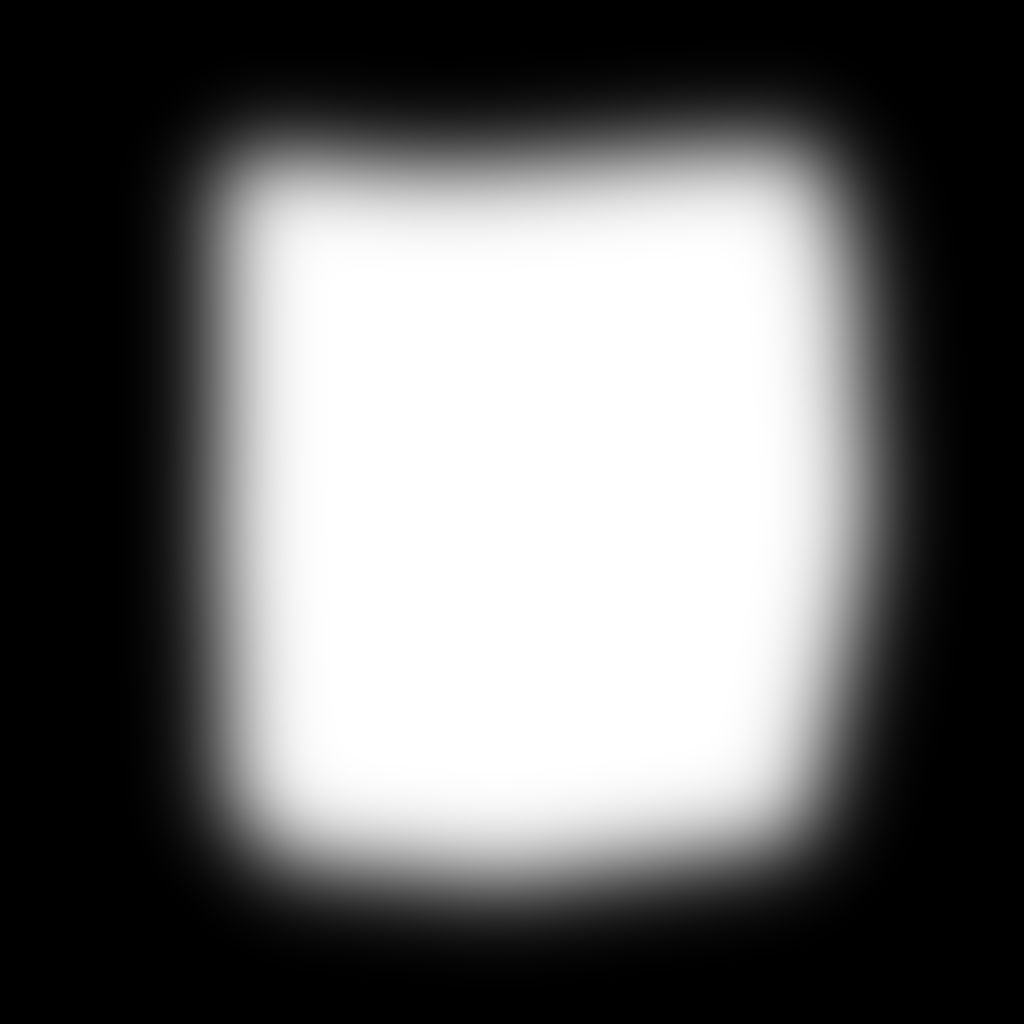
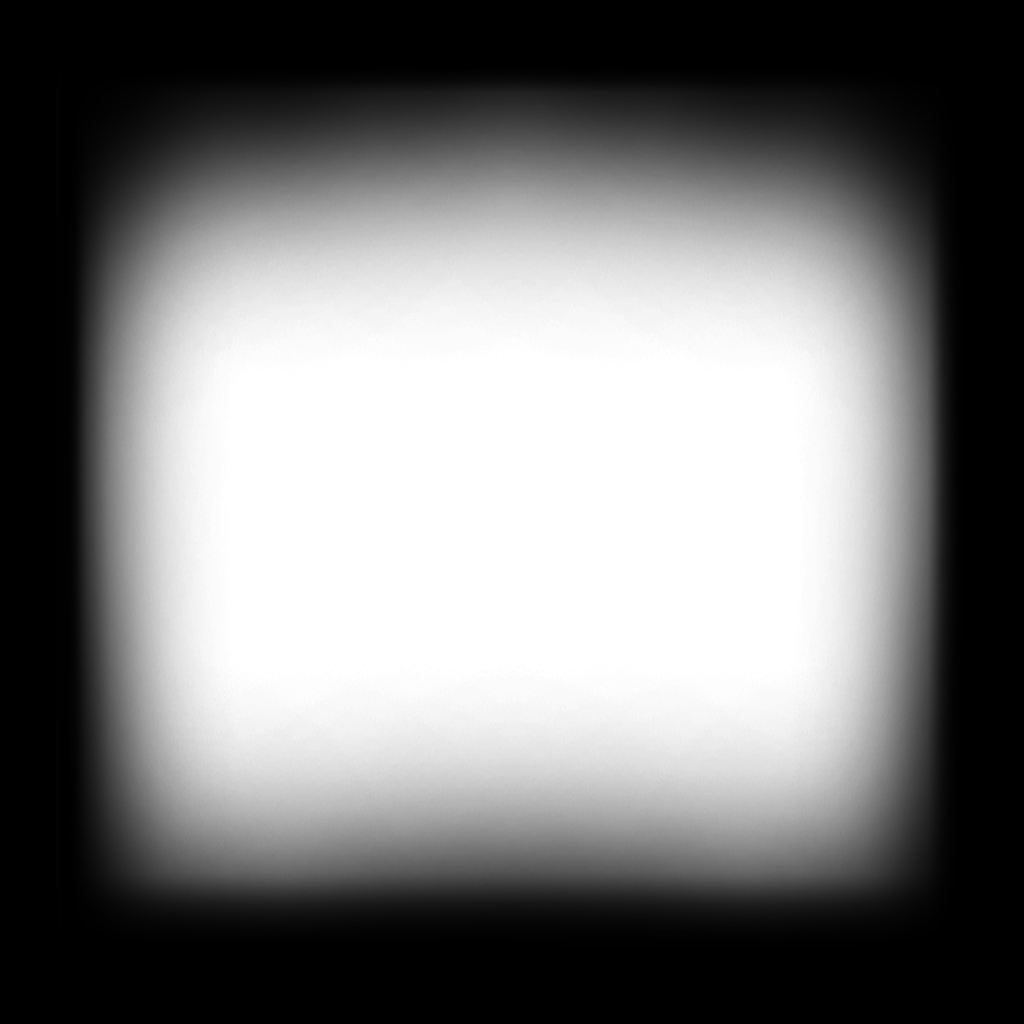
Transitions marchent, particules bien placées, problème d'affichage réglé (header margin), manque a faire la transition entrante

diff --git a/src/js/webgl/webgl.js b/src/js/webgl/webgl.js
@@ -1,15 +1,36 @@
 'use strict';
 
 import LIBS from './libs.js';
-import config from './config.js';
+import config from '../config.js';
 
 let webGL={
 	bg_anim: null,
+	
+	
+	Particle: function(x,y,size){
+		this.x=x;
+		this.y=y;
+		this.direction=[Math.random(),Math.random()];
+		this.size=size;
+		this.anim=0;
+		this.opacity = Math.random()/3;
+		this.update=function(){
+			this.x+=this.direction[0]/300.;
+			this.y+=this.direction[1]/300.;
+			this.anim++;
+		}
+		
+	},
+	
+	
 	 Background: function(r,v,b,a){
 		this.activecol=[r,v,b,a];
 
 		this.animation=[0,0,0];
 		this.transition=0;
+		
+		this.particlesLight=[];
+		this.particlesBack=[];
 		
 		this.addActiveCol = function (r,v,b,a) {
 			this.activecol=[r,v,b,a];
@@ -25,16 +46,39 @@ let webGL={
 		this.update = function(){
 			if(this.transition <100 && this.transition>0)
 				this.transition++;
-
+			
+			if(Math.random()>0.96 && this.particlesLight.length<10){
+				this.particlesLight.push(new webGL.Particle((Math.random()-0.5)*8,(Math.random()-0.5)*3,Math.pow(Math.exp(Math.random())-1,2)));
+			}
+			for (var i = 0; i < this.particlesLight.length; i++) {
+				if(this.particlesLight[i].anim>400)
+					this.particlesLight.shift();
+				else{
+					this.particlesLight[i].update();
+				}
+			}
+			
+			if(Math.random()>0.98 && this.particlesBack.length<10){
+				this.particlesBack.push(new webGL.Particle(5.2*parseInt(Math.sign((Math.random()-0.5)))-0.2,(Math.random()-0.5),Math.random()+1));
+			}
+			if(Math.random()>0.97 && this.particlesBack.length<10){
+				this.particlesBack.push(new webGL.Particle(11*(Math.random()-0.5),2.5*parseInt(Math.sign((Math.random()-0.5)))-0.1,Math.random()+1));
+			}
+			for (var i = 0; i < this.particlesBack.length; i++) {
+				if(this.particlesBack[i].anim>400)
+					this.particlesBack.shift();
+				else{
+					this.particlesBack[i].update();
+				}
+			}
 		};
 		
 		this.animate= function(m){
 			if(this.transition!=0){
-				LIBS.translate(m,[this.animation[0]*this.transition/8. ,this.animation[1]*this.transition/10.+ this.animation[2]*this.transition/20.,0]);
+				LIBS.translate(m,[this.animation[0]*this.transition/8. ,this.animation[1]*this.transition/10.,0]);
 				LIBS.scale(m,[1+this.transition/50.,1+this.transition/50.,1]);
 				
 			}
-
 		};
 	},
 
@@ -59,13 +103,45 @@ let webGL={
 		this.print = function(GL,MOVEMATRIX, _hasColor, _Mmatrix, _UOpacity, _Color){
 			
 			GL.uniform1i(_hasColor,0);
-			GL.uniform1f(_UOpacity,1-bg.transition/100);
+			GL.uniform1f(_UOpacity,1-bg.transition/20);
 			GL.uniformMatrix4fv(_Mmatrix, false, MOVEMATRIX);
 			
 			
 			GL.drawElements(GL.TRIANGLES, 2*3, GL.UNSIGNED_SHORT, 0);
 			
 		};
+		
+		this.printParticles= function(GL,MOVEMATRIX,_Mmatrix,_UOpacity){
+			for (var i = 0; i < bg.particlesLight.length; i++) {
+				LIBS.set_I4(MOVEMATRIX);
+				LIBS.translate(MOVEMATRIX,[bg.particlesLight[i].x ,bg.particlesLight[i].y,0]);
+				if(bg.transition!=0){
+					LIBS.translate(MOVEMATRIX,[bg.animation[0]*bg.transition/8. ,bg.animation[1]*bg.transition/10.,0]);
+				}
+				LIBS.scale(MOVEMATRIX,[bg.particlesLight[i].size+Math.cos(bg.particlesLight[i].anim/100.)*0.01,bg.particlesLight[i].size+Math.sin(bg.particlesLight[i].anim/100.)*0.01,1]);
+				GL.uniform1f(_UOpacity,Math.sin(bg.particlesLight[i].anim/70)*bg.particlesLight[i].opacity-bg.transition/100);
+				GL.uniformMatrix4fv(_Mmatrix, false, MOVEMATRIX);
+				
+				
+				GL.drawElements(GL.TRIANGLES, 2*3, GL.UNSIGNED_SHORT, 0);
+			}
+		}
+		
+		this.printParticlesBack= function(GL,MOVEMATRIX,_Mmatrix,_UOpacity){
+			for (var i = 0; i < bg.particlesBack.length; i++) {
+				LIBS.set_I4(MOVEMATRIX);
+				LIBS.translate(MOVEMATRIX,[bg.particlesBack[i].x ,bg.particlesBack[i].y,0]);
+				if(bg.transition!=0){
+					LIBS.translate(MOVEMATRIX,[bg.animation[0]*bg.transition/8. ,bg.animation[1]*bg.transition/10.,0]);
+				}
+				LIBS.scale(MOVEMATRIX,[bg.particlesBack[i].size+Math.cos(bg.particlesBack[i].anim/100.)*0.01,bg.particlesBack[i].size+Math.sin(bg.particlesBack[i].anim/100.)*0.01,1]);
+				GL.uniform1f(_UOpacity,Math.sin(bg.particlesBack[i].anim/70)*(bg.particlesBack[i].opacity+0.2)/bg.particlesBack[i].size-bg.transition/100);
+				GL.uniformMatrix4fv(_Mmatrix, false, MOVEMATRIX);
+				
+				
+				GL.drawElements(GL.TRIANGLES, 2*3, GL.UNSIGNED_SHORT, 0);
+			}
+		}
 		
 
 		this.update = function(GL,MOVEMATRIX){
@@ -74,23 +150,41 @@ let webGL={
 			bg.animate(MOVEMATRIX);
 			bg.activecol[3]=1-bg.transition/100.;
 			bg2.activecol[3]=bg.transition/100.;
-			LIBS.translateX(MOVEMATRIX,-0.4);
-			LIBS.scale(MOVEMATRIX,[7.5,3,1.]);
+			LIBS.scale(MOVEMATRIX,[6.2,3,1.]);
 			
 			
 			GL.clearColor(bg.activecol[0]*bg.activecol[3] + bg2.activecol[0]*bg2.activecol[3],bg.activecol[1]*bg.activecol[3] + bg2.activecol[1]*bg2.activecol[3],bg.activecol[2]*bg.activecol[3] + bg2.activecol[2]*bg2.activecol[3],1);
 
 			if(bg.transition>=100){
 				bg=bg2;
-				bg2=new Background(Math.random(),Math.random(),Math.random(),0);
+				bg2=new webGL.Background(Math.random(),Math.random(),Math.random(),0);
 			}
 		};
 		
+		
+		this.getColor = function(){
+			return bg.activecol;
+		}
+		
+	},
+	
+	
+	randColor : function(){
+		var color = [0.4+(Math.random()-0.5)/7.,0.6+(Math.random()-0.5)/5.,0.9+(Math.random()-0.5)/10.];
+		var i = Math.floor(Math.random()*100)%3;
+		var j=(Math.random()*2-1);
+		if(j<0){
+			j=-1;
+		}
+		else
+			j=1;
+		return [color[i],color[Math.abs((i+j)%3)],color[Math.abs((i-j)%3)],1];
 	},
 
 
 	runWebGL: function(){
-		webGL.bg_anim = new this.Background_Animation(0.2,0.,0.6,1.);
+		var color = this.randColor();
+		webGL.bg_anim = new this.Background_Animation(color[0],color[1],color[2],color[3]);
 		var CANVAS=document.getElementById("your_canvas");
 	  CANVAS.width=window.innerWidth;
 	  CANVAS.height=window.innerHeight;
@@ -265,6 +359,7 @@ let webGL={
 	  };
 	  
 	  var cube_texture=get_texture(config.imagePath('background_large.png'));
+	  var particle_texture=[get_texture(config.imagePath('blur_mask_large.png')),get_texture(config.imagePath('white_blur_large.png'))];
 
 
 	  /*========================= DRAWING ========================= */
@@ -289,7 +384,6 @@ let webGL={
 			
 		GL.uniformMatrix4fv(_Pmatrix, false, PROJMATRIX);
 		GL.uniformMatrix4fv(_Vmatrix, false, VIEWMATRIX);
-		GL.uniformMatrix4fv(_Mmatrix, false, MOVEMATRIX);
 		
 			
 			if (cube_texture.webglTexture) {
@@ -304,7 +398,18 @@ let webGL={
 
 			GL.bindBuffer(GL.ELEMENT_ARRAY_BUFFER, CUBE_FACES);
 		
-		webGL.bg_anim.print(GL,MOVEMATRIX, _hasColor, _Mmatrix,_UOpacity, _Color);
+			webGL.bg_anim.print(GL,MOVEMATRIX, _hasColor, _Mmatrix,_UOpacity, _Color);
+			
+			
+			if ( particle_texture[1].webglTexture) {
+				GL.bindTexture(GL.TEXTURE_2D, particle_texture[1].webglTexture);
+			}
+			webGL.bg_anim.printParticles(GL,MOVEMATRIX,_Mmatrix,_UOpacity);
+			if ( particle_texture[0].webglTexture) {
+				GL.bindTexture(GL.TEXTURE_2D, particle_texture[0].webglTexture);
+			}
+			webGL.bg_anim.printParticlesBack(GL,MOVEMATRIX,_Mmatrix,_UOpacity);
+			
 		
 		GL.flush();
 		window.requestAnimationFrame(animate);

diff --git a/src/js/app/router.js b/src/js/app/router.js
@@ -28,7 +28,7 @@ AppRouter =
     <Router history={browserHistory} createElement={createElement} onUpdate={onUpdate}>
         <Route path={config.path('')} component={App} onChange={updateAnimation}>
           <IndexRedirect to={config.path('home')} />
-          <Route path='home' component={Wrapper} className="screen presentationPageScreen01 blueScreen"
+          <Route path='home' component={Wrapper} className="screen presentationPageScreen01"
               indexComponent={Index} index={1}
               links={[{'path' :'home', 'label' : 'Home'},
                       {'path' :'home/connexion', 'label' : 'Connexion'},
@@ -37,14 +37,14 @@ AppRouter =
             <Route path='brief1' component={Pres01} index={2}/>
             <Route path='brief2' component={Pres02} index={3}/>
           </Route>
-          <Route path='sign' component={Wrapper} index={2} className="screen presentationPageScreen03 orangeScreen">
+          <Route path='sign' component={Wrapper} index={2} className="screen presentationPageScreen03">
             <Route path='in' component={Connexion} index={2}/>
             <Route path='up' component={Inscription} index={3}/>
           </Route>
           <Route path='signadmin' component={Wrapper} index={3} className="screen">
             <IndexRoute component={ConnexionAdmin} index={1}/>
           </Route>
-          <Route path='admin' component={Wrapper} index={1} className="screen purpleScreen">
+          <Route path='admin' component={Wrapper} index={2} className="screen">
             <IndexRedirect to={config.path('admin/maker')} />
             <Route path='maker' component={Maker} index={1}/>
           </Route>

diff --git a/src/js/utils/pagetransition.js b/src/js/utils/pagetransition.js
@@ -1,6 +1,7 @@
 import TweenMax from '../greenshock/TweenMax.js';
 import TweenLite from '../greenshock/TweenMax.js';
 import ReactDOM from 'react-dom'
+import webGL from '../webgl/webgl.js';
 
 let animationOut, animationIn, prevRoute, nextRoute;
 let animationDuration  = 1.55;
@@ -55,6 +56,7 @@ function outUp(dom) {
 }
 
 function inUp(dom) {
+  webGL.bg_anim.move(0,1,0);
   return TweenLite.fromTo(dom, animationDuration, {y:"100%", opacity:0}, {y:"0%", opacity:1});
 }
 
@@ -63,6 +65,7 @@ function outDown(dom) {
 }
 
 function inDown(dom) {
+	webGL.bg_anim.move(0,-1,0);
   return TweenLite.fromTo(dom, animationDuration,{y:"-100%", opacity:0},{y:"0%", opacity:1});
 }
 
@@ -71,6 +74,7 @@ function outLeft(dom) {
 }
 
 function inLeft(dom) {
+  webGL.bg_anim.move(-1,0,0);
   return TweenLite.fromTo(dom, animationDuration, {x:"100%", opacity:0}, {x:"0%", opacity:1});
 }
 
@@ -79,6 +83,7 @@ function outRight(dom) {
 }
 
 function inRight(dom) {
+  webGL.bg_anim.move(1,0,0);
   return TweenLite.fromTo(dom, animationDuration,{x:"-100%", opacity:0},{x:"0%", opacity:1});
 }
 
@@ -88,6 +93,8 @@ function outDefault(dom) {
 }
 
 function inDefault(dom) {
+  if(webGL.bg_anim != null)
+	webGL.bg_anim.move(0,0,1);
   return TweenLite.fromTo(dom, animationDuration, {opacity:0}, {opacity:1});
 }
 

diff --git a/src/js/main.js b/src/js/main.js
@@ -8,7 +8,7 @@ import TweenMax from './greenshock/TweenMax.js';
 import TweenLite from './greenshock/TweenMax.js';
 import Media from 'react-media';
 import AppRouter from './app/router';
-import webGL from './webgl.js';
+import webGL from './webgl/webgl.js';
 
 var bg_anim;
 domready(() => {
@@ -22,7 +22,7 @@ domready(() => {
 });
 
 class Header extends React.Component{
-
+	
 	render() {
 		if (this.props.logged == 1) {
 			return (

diff --git a/src/scss/main.scss b/src/scss/main.scss
@@ -67,7 +67,7 @@ header {
 	padding-left: 5%;
 	padding-right: 5%;
 	padding-top: 3%;
-	height: auto;
+	height: 0;
 	font-size: 10px;
 	font-family: 'Bjorn';
 	font-weight: lighter;
